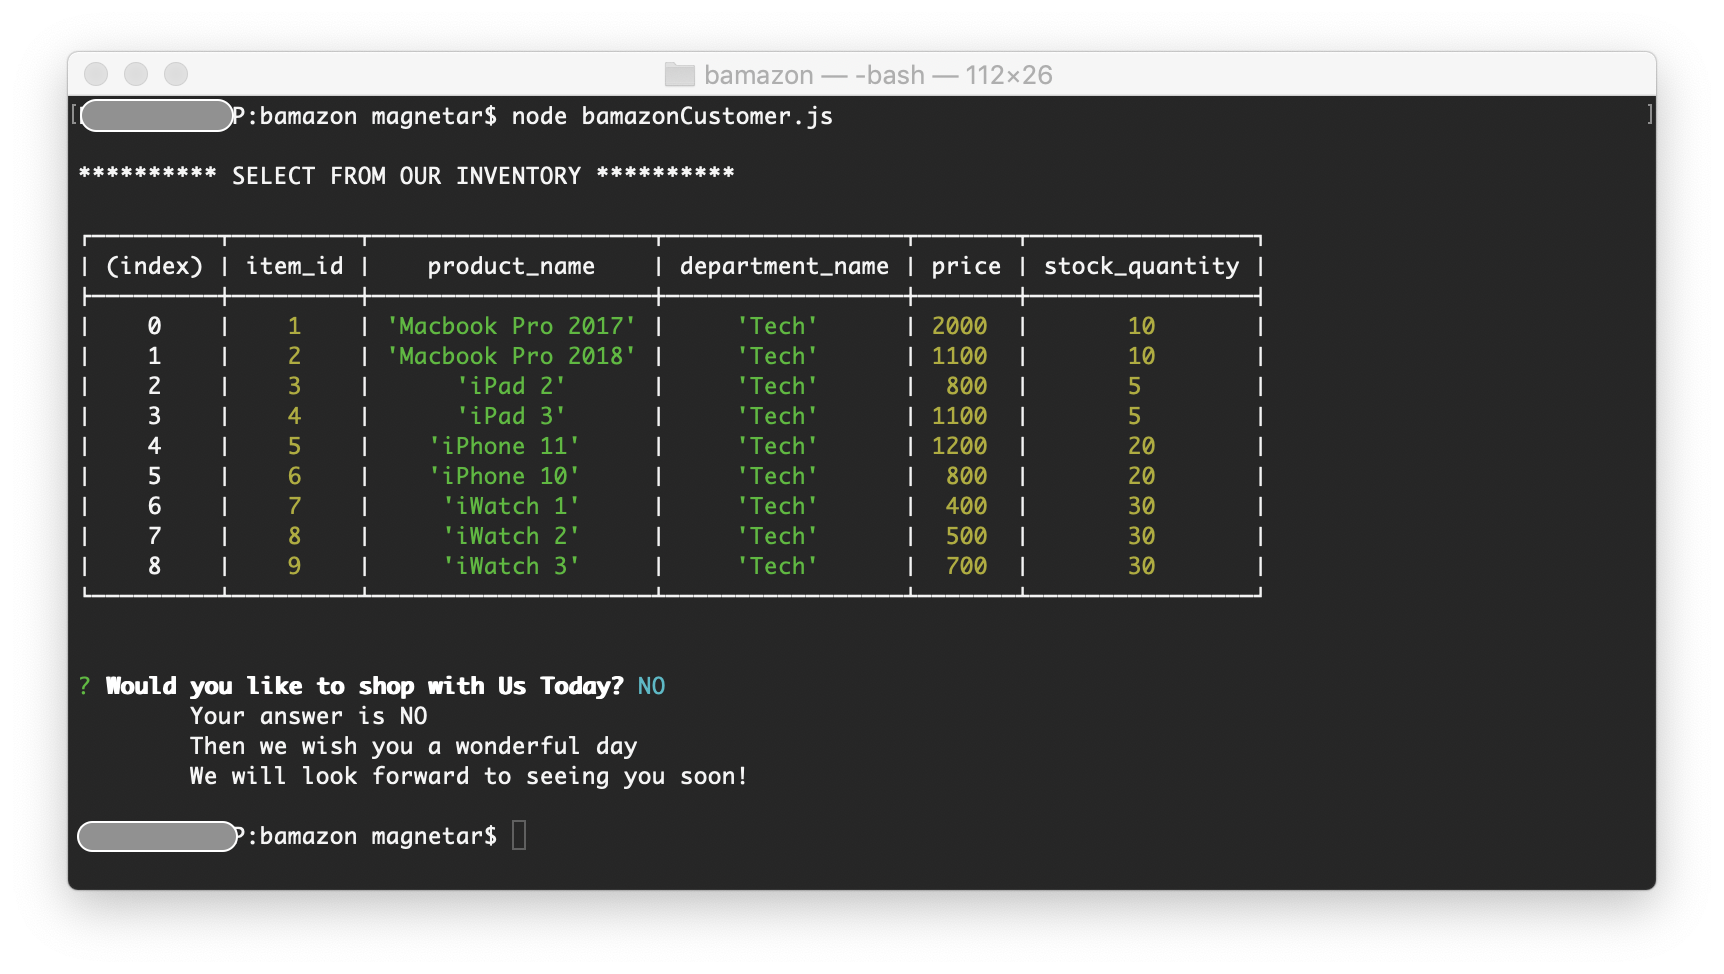
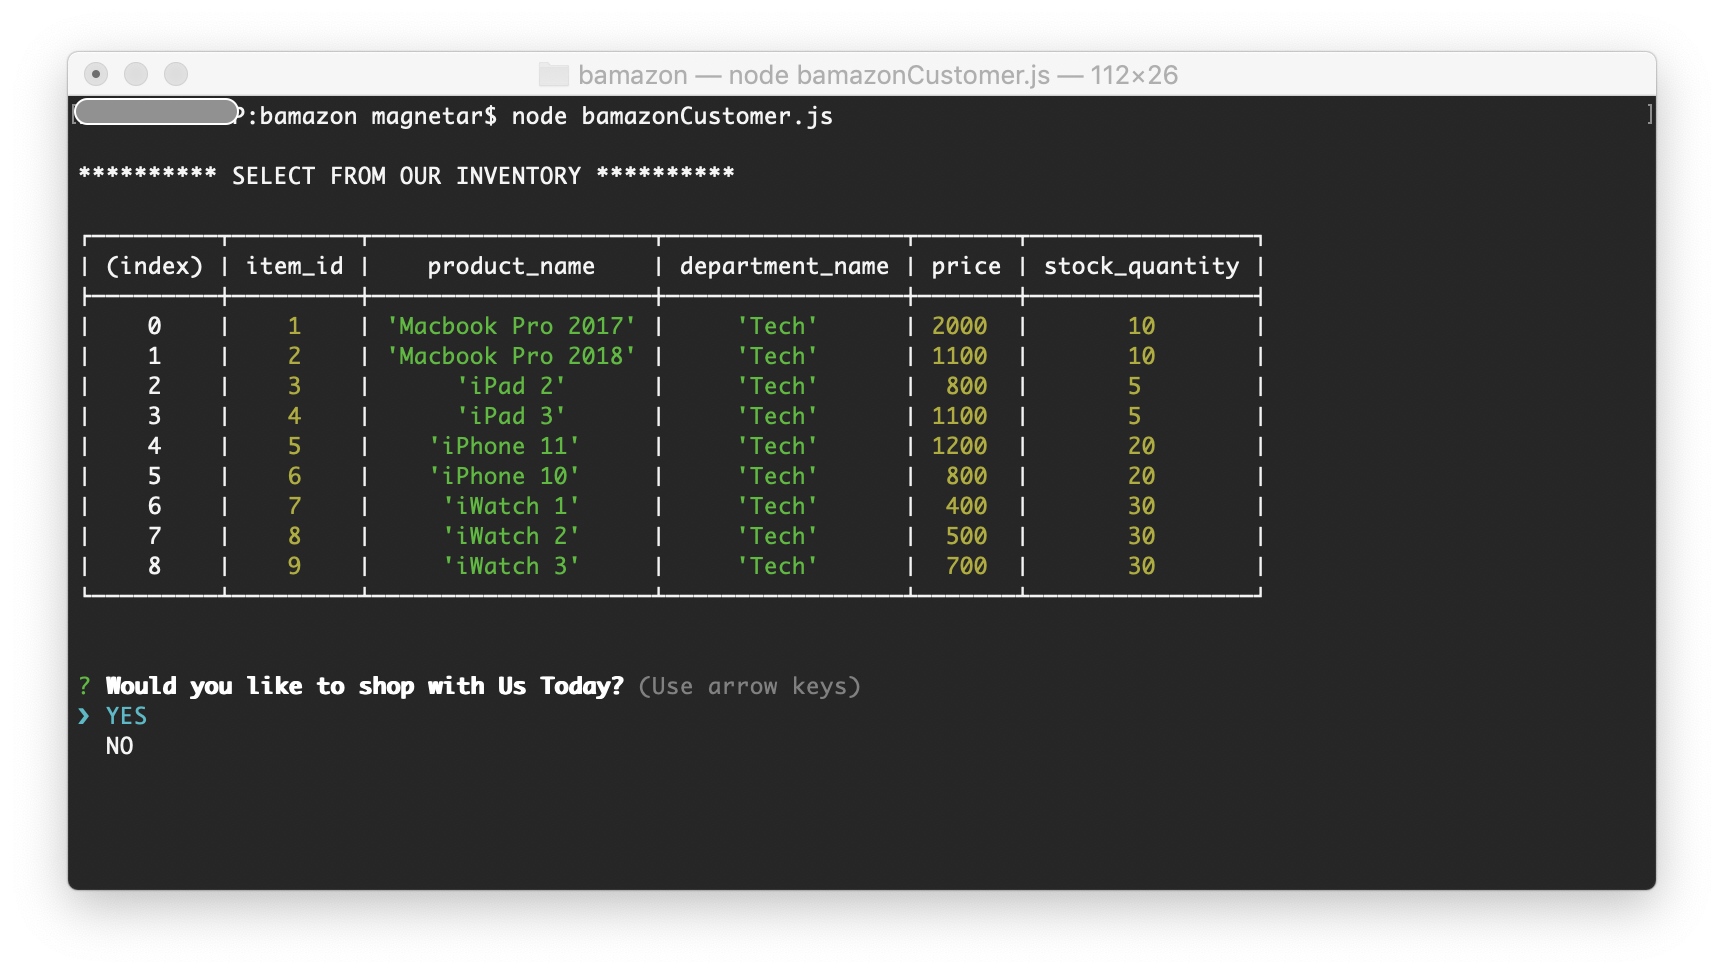
Readme update

diff --git a/bamazonCustomer.js b/bamazonCustomer.js
@@ -38,11 +38,13 @@ const displayInventory = () => {
           console.log(`\tWe will look forward to seeing you soon!\n`);
           return connection.end();
         } else {
-          console.log("Welcome to our store");
+          console.log("\tWelcome to our store!")
+          console.log("\tPlease select the product id and units you'd like purchase from our inventory");
         }
       });
   });
 };
+
 
 // RUN APP HERE 
 displayInventory();

diff --git a/README.md b/README.md
@@ -16,8 +16,14 @@
 * NPM Packages: mysql, inquirer, dotenv
 
 ## Examples 
-* Example 1: When the customer's reponse is NO after being asked to shop with us
+* Example 1: When a customer asked to shop with us
 ![Example-1](/screenshots-examples/example-1.png)
+
+* Example 2: When customer's response is "NO"
+![Example-2](/screenshots-examples/example-2.png)
+
+* Example 3: When customer's response is "YES"
+![Example-3](/screenshots-examples/example-3.png)
     
 
 
